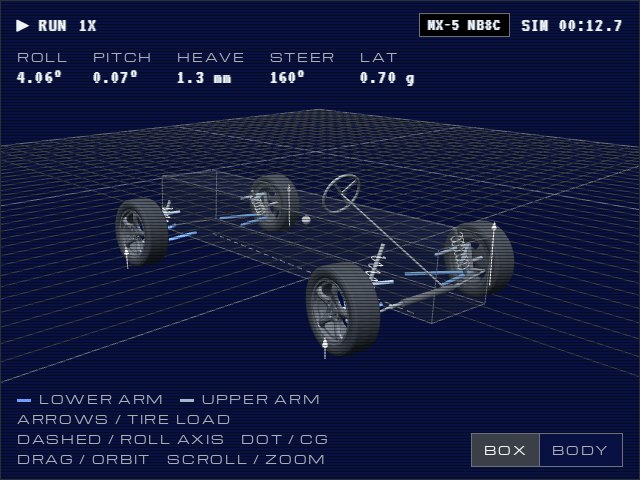
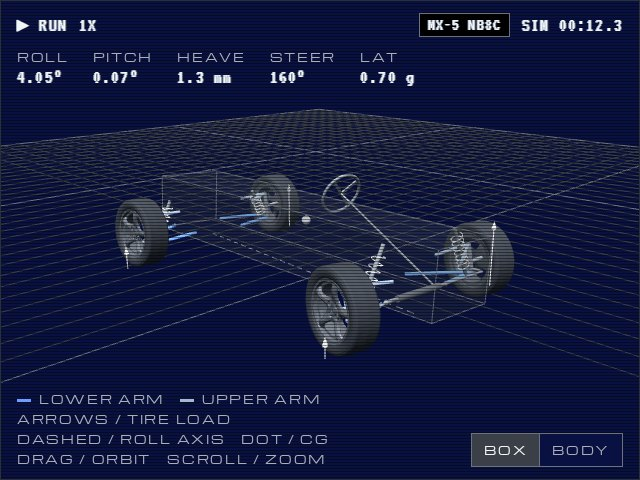
Steering rack moved to the owner's estimate of where it sits
The rack's inner joints were assumed straight across from the outer
joints (99 mm ahead of the axle, 722 mm apart). They are now 50 mm
ahead of the lower arm's front pivot and 25 in apart, about in line
with the lower arm pivots (by eye, not measured). The outer joint was
refitted to Mazda's full lock (38 / 33 deg) and the rack height to the
least bump steer (200.0 mm). Coen's rack stays 6.8 mm above stock and
his toe field is re-set to hold -0.5 deg at ride height.

Stock: steering ratio 14.0 -> 14.2, 0.07 deg of toe-out at 30 mm of
bump, understeer gradient +0.31 -> +0.41 deg/g. Coen's: full lock
37.1 / 31.0 -> 38.1 / 31.2 deg, bump steer 0.151 -> 0.119 deg/10 mm,
understeer gradient -0.05 -> +0.05 deg/g.

Claude-Session: https://claude.ai/code/session_01XaYnxNh97FpaRMzgoeqeMp

diff --git a/index.html b/index.html
@@ -195,12 +195,12 @@
         <tr><td>Springs, front / rear</td><td>8 / 6 kgf/mm = 78.5 / 58.8 N/mm</td><td class="u k">Set</td></tr>
         <tr><td>Dampers</td><td>Stock slopes × 1.66 front, × 1.69 rear (square root of the spring ratio)</td><td class="u k">Guess</td></tr>
         <tr><td>Wheels and tires</td><td>15×7 ET35, 185/45R15 at 240 kPa, loaded radius 260 mm, 235 N/mm; wheel spacers 30 mm front and 12 mm rear (effective offset ET5 front, ET23 rear)</td><td class="u k">Set</td></tr>
-        <tr><td>Camber, front</td><td>−4.64° at ride height: the adjuster gives −2° on uncut arms, and the upper arm is 10.5 mm shorter (239.5 mm). That is the smallest cut that keeps both front wheels out of positive camber at full lock; my real cut is not measured.</td><td class="u k">Set + worked out</td></tr>
+        <tr><td>Camber, front</td><td>−4.64° at ride height: the adjuster gives −2° on uncut arms, and the upper arm is 10.5 mm shorter (239.5 mm). That cut brings the inside front wheel to about zero camber at full lock (+0.15°); my real cut is not measured.</td><td class="u k">Set + worked out</td></tr>
         <tr><td>Camber, rear</td><td>−1.5° at ride height, arms uncut</td><td class="u k">Set</td></tr>
         <tr><td>Caster and toe</td><td>Caster 3°. Toe at ride height −0.5° per wheel front, 0° rear</td><td class="u k">Set</td></tr>
         <tr><td>Ride height</td><td>−26 mm front, −38 mm rear from stock height, measured at the body, so it includes the 14 mm smaller tire radius (Heights tab, same zero as Stock)</td><td class="u k">Set</td></tr>
         <tr><td>Travel limits, bump / droop</td><td>The stock dampers' stops: 96 / 79 mm front, 94 / 82 mm rear from design height (stock's 82 / 93 and 80 / 96, moved by the 14 mm smaller tire radius)</td><td class="u k">Set</td></tr>
-        <tr><td>Rack, inner joint height</td><td>207.0 mm, 6.8 mm above stock</td><td class="u k">Set</td></tr>
+        <tr><td>Rack, inner joint height</td><td>206.8 mm, 6.8 mm above stock</td><td class="u k">Set</td></tr>
         <tr><td>Track, front / rear</td><td>1514 / 1468 mm (the spacers and the camber widen it)</td><td class="u k">Follows</td></tr>
         <tr><td>Roll center height, front / rear</td><td>25 / 92 mm</td><td class="u k">Follows</td></tr>
         <tr><th>Stock car, published by Mazda</th><th></th><th></th></tr>
@@ -234,20 +234,21 @@
         <tr><td>Front upright, ball joint to ball joint</td><td>217.2 mm: the measured heights, leaned to Mazda's 11°39′ kingpin</td><td class="u k">Measured + published</td></tr>
         <tr><td>Hub face position, kingpin offset, tie rod joints, coilover mounts</td><td>See the Geometry tab</td><td class="u k">Fitted</td></tr>
         <tr><td>Rear upright, pivot height, hub face, damper mount</td><td>Upright 240 mm between the arm mounts, lower pivot 186.4 mm above ground, hub face 137.9 mm from the kingpin axis, fitted to roll center 120 mm, track 1440 mm and motion ratio 0.721. A rough 230 mm estimate of the upright could not give that roll center with enough droop reach.</td><td class="u k">Fitted</td></tr>
-        <tr><td>Front tie rod, outer joint</td><td>101 mm ahead of the ball joint axis, fitted to the published full lock. A rough 135 mm measurement gave 27° / 25° of lock, so it was not used.</td><td class="u k">Fitted</td></tr>
+        <tr><td>Front tie rod, outer joint</td><td>105 mm ahead of the kingpin axis and 4 mm outboard of it, fitted to the published full lock with the rack where it is below. A rough 135 mm measurement gave 27° / 25° of lock, so it was not used.</td><td class="u k">Fitted</td></tr>
+        <tr><td>Steering rack, inner joints</td><td>50 mm ahead of the lower arm's front pivot and 25 in (635 mm) apart, about in line with the lower arm pivots (646 mm apart). By eye, not measured. Tie rods 348.5 mm.</td><td class="u k">Owner's estimate</td></tr>
         <tr><th>Estimates</th><th></th><th></th></tr>
                 <tr><td>Unsprung mass per corner</td><td>32 kg</td><td class="u k">Estimate</td></tr>
         <tr><td>Front weight share</td><td>52 %</td><td class="u k">Estimate</td></tr>
         <tr><td>Roll / pitch inertia, sprung</td><td>260 / 1050 kg·m²</td><td class="u k">Estimate</td></tr>
         <tr><td>Tire rate and loaded radius</td><td>185 N/mm, 274 mm, from the size and pressure</td><td class="u k">Estimate</td></tr>
         <tr><td>Anti-roll bar at the wheel, front / rear</td><td>8.0 / 1.4 N/mm, from 22 / 11 mm bars</td><td class="u k">Estimate</td></tr>
-        <tr><td>Bump steer</td><td>Zero front and rear on the stock car. The front rack height (200.2 mm) is set to give that.</td><td class="u k">Estimate</td></tr>
+        <tr><td>Bump steer</td><td>The front rack height (200.0 mm) is the one with the least toe change over the wheel travel. With the rack where it is above, some is left: 0.07° of toe-out at 30 mm of bump on the stock car. Rear: zero.</td><td class="u k">Estimate</td></tr>
         <tr><td>Tire grip</td><td>Typical values for the kind of tire, not measured: street tires on Stock (peak 0.95), sporty street tires on Coen's (peak 1.10). See the Wheels &amp; tires tab.</td><td class="u k">Estimate</td></tr>
         <tr><td>Yaw inertia, whole car</td><td>1400 kg·m²</td><td class="u k">Estimate</td></tr>
         <tr><th>Checks, not used in the fit</th><th></th><th></th></tr>
         <tr><td>NA roll center: lower pivot 5.8 mm higher</td><td>62.5 mm. Mazda: 61 mm</td><td class="u k">Check</td></tr>
         <tr><td>NA caster trail at 4°26′</td><td>11.6 mm. Mazda: 11.6 mm</td><td class="u k">Check</td></tr>
-        <tr><td>Turning radius, outer front tire</td><td>4.49 m. Mazda: 4.6 m</td><td class="u k">Check</td></tr>
+        <tr><td>Turning radius, outer front tire</td><td>4.50 m. Mazda: 4.6 m</td><td class="u k">Check</td></tr>
       </table></div>
       <h3>Sources</h3>
       <ul>
@@ -288,7 +289,7 @@
       <li><div><b><i>1</i>Set up the car</b><span>Starter setups: <em>Stock</em> · <em>Coen's</em><br>Input car geometries<br><em>Export</em> or <em>Import</em> setups</span></div>
         <img src="intro-1.jpg?v=c79f25ca" width="640" height="480" alt="The Pause, Settle and Drive buttons, the Stock, Coen's and Session buttons, and the tabs"></li>
       <li><div><b><i>2</i>Steer and load it</b><span>Steering wheel slider · Forces sliders</span></div>
-        <img src="intro-2.jpg?v=0fc19538" width="640" height="480" alt="The 3D view with the front wheels turned and the body leaning"></li>
+        <img src="intro-2.jpg?v=5a31e5dd" width="640" height="480" alt="The 3D view with the front wheels turned and the body leaning"></li>
       <li><div><b><i>3</i>Test turn-in</b><span><em>Drive</em>: On<br>Assess turn-in reaction and grip limits of moving car</span></div>
         <img src="intro-3.jpg?v=7f1d9523" width="640" height="480" alt="The Drive button lit, and the Forces tab with the steady speed, steering wheel and Step steer controls"></li>
     </ol>
@@ -299,7 +300,7 @@
 <script src="three.min.js"></script>
 <script src="OrbitControls.js"></script>
 <script src="body-model.js?v=3635bb84"></script>
-<script src="core.js?v=eca9c894"></script>
+<script src="core.js?v=bef0064e"></script>
 <script src="ui.js?v=b33cecb8"></script>
 </body>
 </html>

diff --git a/core.js b/core.js
@@ -16,7 +16,9 @@ const ET_FIT=0.040;      // the wheel offset the hub position was fitted with (M
      192.1 mm apart in height), rear arms (lower 393.7 mm, upper 212.7 mm).
    MEASURED by others: spring motion ratios 0.686 / 0.721; static stability factor 1.59 (NHTSA), CG 449 mm for the whole car.
    FITTED so the model reproduces the published numbers: front inner pivot positions, all pivot heights, rear upright (240 mm),
-     spindle and hub-face positions, tie-rod joints, rack height (zero bump steer), coilover mount positions.
+     spindle and hub-face positions, tie rod outer joint (full lock 38° / 33°), rack height (least bump steer), coilover mount positions.
+   OWNER'S ESTIMATE, not measured: the rack's inner joints are 50 mm ahead of the lower arm's front pivot and about 25 in apart, roughly in
+     line with the lower arm pivots (646 mm apart).
    ESTIMATES: unsprung mass, roll, pitch and yaw inertia, tire rate, anti-roll bar rates, front weight share, and every tire grip
      number (typical values for the kind of tire, not measured).
    The Miata has no rear toe link. Its rear lower arm has two outer pivots; the model draws the arm as two legs (front leg to the
@@ -25,8 +27,8 @@ const ET_FIT=0.040;      // the wheel offset the hub position was fitted with (M
    15x7 ET35 wheels with 30 / 12 mm spacers, 185/45R15 tires, ride height -26 mm front and -38 mm rear (measured at the body, so
    it includes the 14 mm smaller tire radius), rack 6.8 mm higher, caster 3°, toe -0.5° front and 0° rear at ride height.
    Camber: the adjusters give -2° front and -1.5° rear at ride height on uncut arms (Coen's alignment); the front upper arm is then
-   10.5 mm shorter (239.5 mm), which brings the front to -4.64°. 10.5 mm is the smallest cut that keeps either front wheel from going
-   to positive camber at full lock; Coen's real cut is not measured. Travel limits are the stock dampers' stops, which sit 14 mm
+   10.5 mm shorter (239.5 mm), which brings the front to -4.64°. 10.5 mm brings the inside front wheel to about zero camber
+   at full lock (+0.15°); Coen's real cut is not measured. Travel limits are the stock dampers' stops, which sit 14 mm
    further from ride height on the smaller tire (96 / 79 mm front, 94 / 82 mm rear).
    The wheel is fixed on the knuckle (version 41): camber = knuckle angle (inc) - kingpin inclination + adjuster (cadj, +1 to -3°).
    look says which body and rims the 3D view draws (0: Roadster RS, 1: Coen's). It has no effect on the numbers. */
@@ -36,7 +38,7 @@ function stockCar(){
     steer:{c:0.0465,rmax:0.0605,speed:60/3.6,link:0,cut:0,cutL:0.020},
     ax:[
       {g:{Ll:0.3366,Lu:0.25,Lk:0.2172,yli:0.3232,zli:0.1718,yui:0.368,zui:0.3606,xlf:-0.0258,xlr:-0.3508,xuf:0.0881,xur:-0.1319,ee:0.13,hsp:0.0805,hf:0.1057,xk:0.0086,rimD:0.381,rimW:0.1524,et:0.040,sp:0,tw:0.195,ar:0.50,pk:180000,R:0.274,tmu:0.95,tls:6e-5,tca:0.20,tcg:0.012,tgo:2,inc:11.712479,cadj:0,caster:5.6667,toe:0.15,kt:185000,
-          xto:0.0987,yto:0.6846,zto:0.215,xti:0.0987,yti:0.3609,zti:0.2002,fMount:0.777,ydm:0.378,zdm:0.5825,bump:0.082,droop:0.093},
+          xto:0.1012,yto:0.6571,zto:0.215,xti:0.0242,yti:0.3175,zti:0.2,fMount:0.777,ydm:0.378,zdm:0.5825,bump:0.082,droop:0.093},
        s:{k:28440,arb:8000,cbl:3430,cbh:1080,vkb:0.1,crl:6080,crh:2600,vkr:0.1}},
       {g:{Ll:0.3937,Lu:0.2127,Lk:0.24,yli:0.2439,zli:0.1864,yui:0.3873,zui:0.3785,xlf:0.0982,xlr:-0.2222,xuf:0.0657,xur:-0.0989,ee:0.132,hsp:0.1074,hf:0.1379,xk:0,rimD:0.381,rimW:0.1524,et:0.040,sp:0,tw:0.195,ar:0.50,pk:180000,R:0.274,tmu:0.95,tls:6e-5,tca:0.20,tcg:0.012,tgo:2,inc:8.046475,cadj:0,caster:0,toe:0.15,kt:185000,
           fMount:0.8735,ydm:0.4397,zdm:0.465,bump:0.080,droop:0.096},
@@ -50,7 +52,7 @@ function stockCar(){
 const TIRE_PRESETS={street:{tmu:0.95,tls:6e-5,tca:0.20,tcg:0.012,tgo:2},sport:{tmu:1.10,tls:6e-5,tca:0.26,tcg:0.015,tgo:2.5},semi:{tmu:1.30,tls:7e-5,tca:0.32,tcg:0.018,tgo:3}};
 function coensCar(){ const P=stockCar(), sf=Math.sqrt(8/2.9), sr=Math.sqrt(6/2.1);
        for(const g of [P.ax[0].g,P.ax[1].g]) Object.assign(g,{rimD:0.381,rimW:0.1778,et:0.035,tw:0.185,ar:0.45,pk:240000,R:0.260,kt:235000},TIRE_PRESETS.sport);
-       Object.assign(P.ax[0].g,{Lu:0.2395,cadj:-1.7,caster:3,toe:-0.9112,zti:0.207,sp:0.030,bump:0.096,droop:0.079});
+       Object.assign(P.ax[0].g,{Lu:0.2395,cadj:-1.7,caster:3,toe:-0.863,zti:0.2068,sp:0.030,bump:0.096,droop:0.079});
        Object.assign(P.ax[1].g,{cadj:0.05,toe:0,sp:0.012,bump:0.094,droop:0.082});
        P.ax[0].s.k=78450; P.ax[1].s.k=58840;
        for(const k of ["cbl","cbh","crl","crh"]){P.ax[0].s[k]=Math.round(P.ax[0].s[k]*sf); P.ax[1].s[k]=Math.round(P.ax[1].s[k]*sr);}

diff --git a/README.md b/README.md
@@ -42,7 +42,7 @@ Open `index.html` in a browser. Everything it needs is in this folder, so it wor
 
 ## The two cars: where each number comes from
 
-Both are a Mazda MX-5 NB 1.8 (NB8C). The **Stock** button loads the car as Mazda built it. The **Coen's** button loads the same arms, pivots and rack with these changes: 8 / 6 kgf/mm springs, 15×7 ET35 wheels with 30 mm (front) and 12 mm (rear) spacers, 185/45R15 tires at 240 kPa (loaded radius 260 mm, 235 N/mm, as entered), camber adjusters set so uncut arms read −2° front and −1.5° rear at ride height, the front upper arm 10.5 mm shorter (239.5 mm) so the front reads −4.64° (the smallest cut that keeps both front wheels out of positive camber at full lock; the real cut is not measured), caster 3°, toe −0.5° front and 0° rear at ride height, rack inner joint 207.0 mm (6.8 mm above stock), ride height −26 mm front and −38 mm rear from stock height measured at the body (so it includes the 14 mm smaller tire radius), and the stock dampers' travel stops, which sit at 96 / 79 mm front and 94 / 82 mm rear from design height on the smaller tire. Stock has Mazda's 15×6 ET40 wheels with 195/50R15 tires (loaded radius 274 mm); the rim diameter only changes the drawing and the tire-size estimate. Coen's dampers are the stock slopes × 1.66 front and × 1.69 rear, which is a guess (the real ones are stiffer by an unknown amount). Any edit lights the **Session** button instead: your edits are kept in this browser as the session setup, and Session loads them back after you try Stock or Coen's. Until you edit something, Session is the stock car. A new visitor starts on the stock car with the floor still and the plain box shown. A one-window quick start guide opens every time the page loads; close it with the ✕, Esc or a click outside, and reopen it with the **Guide** button. **Export** saves the setup on screen as a `.json` file (named `dws-<car>-<date>.json`); **Import** loads such a file as the session setup, replacing the session setup kept in the browser. A file whose geometry cannot be built is refused and nothing changes. The Steering tab has a **Cut knuckles** switch: it shortens the front steering arm by the amount entered (20 mm is a placeholder) and re-sets the tie rod so static toe holds; it is off in both cars.
+Both are a Mazda MX-5 NB 1.8 (NB8C). The **Stock** button loads the car as Mazda built it. The **Coen's** button loads the same arms, pivots and rack with these changes: 8 / 6 kgf/mm springs, 15×7 ET35 wheels with 30 mm (front) and 12 mm (rear) spacers, 185/45R15 tires at 240 kPa (loaded radius 260 mm, 235 N/mm, as entered), camber adjusters set so uncut arms read −2° front and −1.5° rear at ride height, the front upper arm 10.5 mm shorter (239.5 mm) so the front reads −4.64° (a cut that brings the inside front wheel to about zero camber at full lock, +0.15°; the real cut is not measured), caster 3°, toe −0.5° front and 0° rear at ride height, rack inner joint 206.8 mm (6.8 mm above stock), ride height −26 mm front and −38 mm rear from stock height measured at the body (so it includes the 14 mm smaller tire radius), and the stock dampers' travel stops, which sit at 96 / 79 mm front and 94 / 82 mm rear from design height on the smaller tire. Stock has Mazda's 15×6 ET40 wheels with 195/50R15 tires (loaded radius 274 mm); the rim diameter only changes the drawing and the tire-size estimate. Coen's dampers are the stock slopes × 1.66 front and × 1.69 rear, which is a guess (the real ones are stiffer by an unknown amount). Any edit lights the **Session** button instead: your edits are kept in this browser as the session setup, and Session loads them back after you try Stock or Coen's. Until you edit something, Session is the stock car. A new visitor starts on the stock car with the floor still and the plain box shown. A one-window quick start guide opens every time the page loads; close it with the ✕, Esc or a click outside, and reopen it with the **Guide** button. **Export** saves the setup on screen as a `.json` file (named `dws-<car>-<date>.json`); **Import** loads such a file as the session setup, replacing the session setup kept in the browser. A file whose geometry cannot be built is refused and nothing changes. The Steering tab has a **Cut knuckles** switch: it shortens the front steering arm by the amount entered (20 mm is a placeholder) and re-sets the tie rod so static toe holds; it is off in both cars.
 
 | Basis | Numbers |
 |---|---|
@@ -50,10 +50,10 @@ Both are a Mazda MX-5 NB 1.8 (NB8C). The **Stock** button loads the car as Mazda
 | Measured by others | Motion ratios 0.686 / 0.721 (owner measurement), CG height 449 mm (from NHTSA's static stability factor 1.59) |
 | Measured on the parts | Front arms: lower 336.6 mm from the pivot line to the ball joint, inner pivots 325 mm apart, ball joint 25 mm ahead of the front pivot; upper 250 mm, inner pivots 220 mm apart. Front knuckle: upper ball joint 120.7 mm above the axle, lower ball joint 92.1 mm below it and 88.9 mm in from the wheel face. Rear chassis pivots: lower 243.9 mm and upper 387.3 mm from the centerline, upper 192.1 mm above lower, lower pivots 320.4 mm apart front to back, upper 164.5 mm. Rear arms: lower 393.7 mm, upper 212.7 mm. Rear upright: the axle sits 45 % of the way up from the lower arm mount to the upper one (photo) |
 | NA drawing values already in this project | Upper pivots 183 mm above lower (188.8 mm on the NB). The drawing's pivot spacings (656 / 756 mm) and 350 mm lower arm are no longer used |
-| Fitted so the model reproduces the numbers above | Front: pivots 646 / 736 mm apart and 171.8 / 360.6 mm above ground, upright 217.2 mm (the measured heights leaned to Mazda's 11°39′ kingpin), spindle and hub-face positions, tie rod outer joint 101 mm ahead of the ball joint axis (full lock 38° / 33°; a rough 135 mm measurement gave 27° / 25° and was not used), rack height 200.2 mm (zero bump steer), coilover mount. Rear: upright 240 mm (a rough 230 mm estimate could not give the roll center with enough droop reach), lower pivot 186.4 mm above ground, hub face 137.9 mm, damper mount 0.874 along the arm, fitted to the 120 mm roll center, 1440 mm track and 0.721 motion ratio |
+| Fitted so the model reproduces the numbers above | Front: pivots 646 / 736 mm apart and 171.8 / 360.6 mm above ground, upright 217.2 mm (the measured heights leaned to Mazda's 11°39′ kingpin), spindle and hub-face positions, tie rod outer joint 105 mm ahead of the kingpin axis and 4 mm outboard of it (full lock 38° / 33°; a rough 135 mm measurement gave 27° / 25° and was not used), rack height 200.0 mm (least bump steer: 0.07° of toe-out at 30 mm of bump is left), coilover mount. The rack's inner joints are an owner's estimate, not a measurement: 50 mm ahead of the lower arm's front pivot and 25 in (635 mm) apart, about in line with the lower arm pivots. Rear: upright 240 mm (a rough 230 mm estimate could not give the roll center with enough droop reach), lower pivot 186.4 mm above ground, hub face 137.9 mm, damper mount 0.874 along the arm, fitted to the 120 mm roll center, 1440 mm track and 0.721 motion ratio |
 | Estimates | Unsprung mass 32 kg per corner, front weight share 52 %, inertias (yaw 1400 kg·m²), tire rate 185 N/mm, anti-roll bar rates 8.0 / 1.4 N/mm, and every tire grip number (typical street tires on Stock, typical sporty street tires on Coen's) |
 
-Checks that were not used in the fit: with the lower pivot 5.8 mm higher (the NA position) the model's front roll center is 62.5 mm (Mazda's NA figure: 61 mm), and with the NA's 4°26′ caster the trail is 11.6 mm (Mazda: 11.6 mm). The turning radius at the outer front tire is 4.49 m (Mazda: 4.6 m).
+Checks that were not used in the fit: with the lower pivot 5.8 mm higher (the NA position) the model's front roll center is 62.5 mm (Mazda's NA figure: 61 mm), and with the NA's 4°26′ caster the trail is 11.6 mm (Mazda: 11.6 mm). The turning radius at the outer front tire is 4.50 m (Mazda: 4.6 m).
 
 ### The rear arms
 
